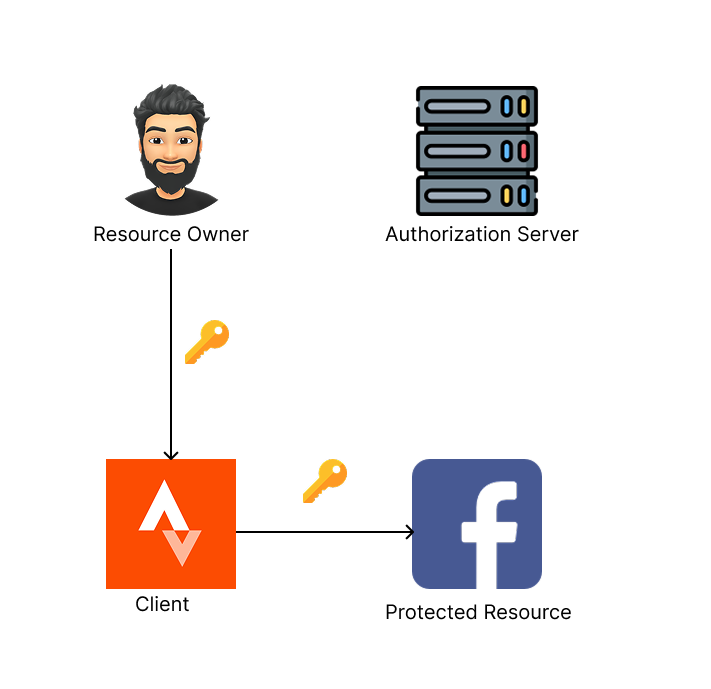
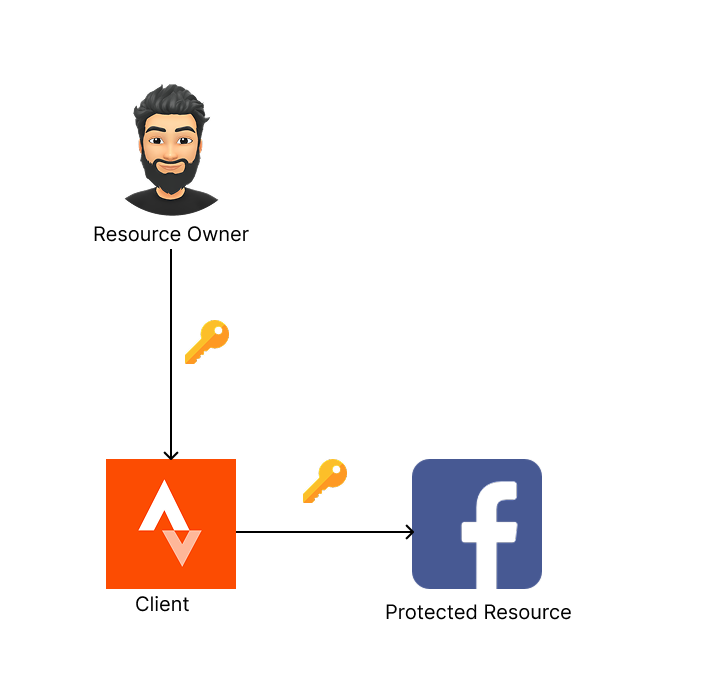
updated images and wording

Changed region(s): [[0.526, 0.1219, 0.8045, 0.3657]]

diff --git a/src/content/posts/introduction-to-oauth.md b/src/content/posts/introduction-to-oauth.md
@@ -7,15 +7,29 @@ tags: ['OAuth']
 series: 'OAuth Simplified'
 ---
 
-## OAuth Definition
+## OAuth 2.0 Definition
 
-Definition of OAuth from RFC 6749 <https://tools.ietf.org/html/rfc6749>
+Definition of OAuth 2.0 from [RFC 6749](https://tools.ietf.org/html/rfc6749):
 
 "The OAuth 2.0 authorization framework enables a third-party application to obtain limited access to an HTTP service, either on behalf of a resource owner by orchestrating an approval interaction between the resource owner and the HTTP service, or by allowing the third-party application to obtain access on its own behalf."
 
-## OAuth components
+:::sweatingDuck
+That is quite a confusing definition!
+:::
 
-- Resource owner: An actual person that has access to an API. This person is comfortable and able able to delegate access to that API. This person also has access to a web browser.
+:::me
+Don't worry! After reading through this article, try to read this definition again. I promise you it will make sense.
+:::
+
+:::joyfulDuck
+Okay, let's go!
+:::
+
+One of the main usecases of OAuth 2.0 is to give third party applications limited access to the private resources that you own. We will see how that is exactly done throughout this article. But first, let's discuss the various components that we will see when learning OAuth 2.0.
+
+## OAuth 2.0 components
+
+- Resource owner: This is a person that has access to an API. This person is willing and able to delegate limited access to their API. Meaning, this person is willing to give access to a certain part of their API to another application. This person also has access to a web browser.
 - Protected resource: The component that the resource owner has access to. This is normally an API.
 - Client: The piece of software that access the protected resource on behalf of the resource owner.
 
